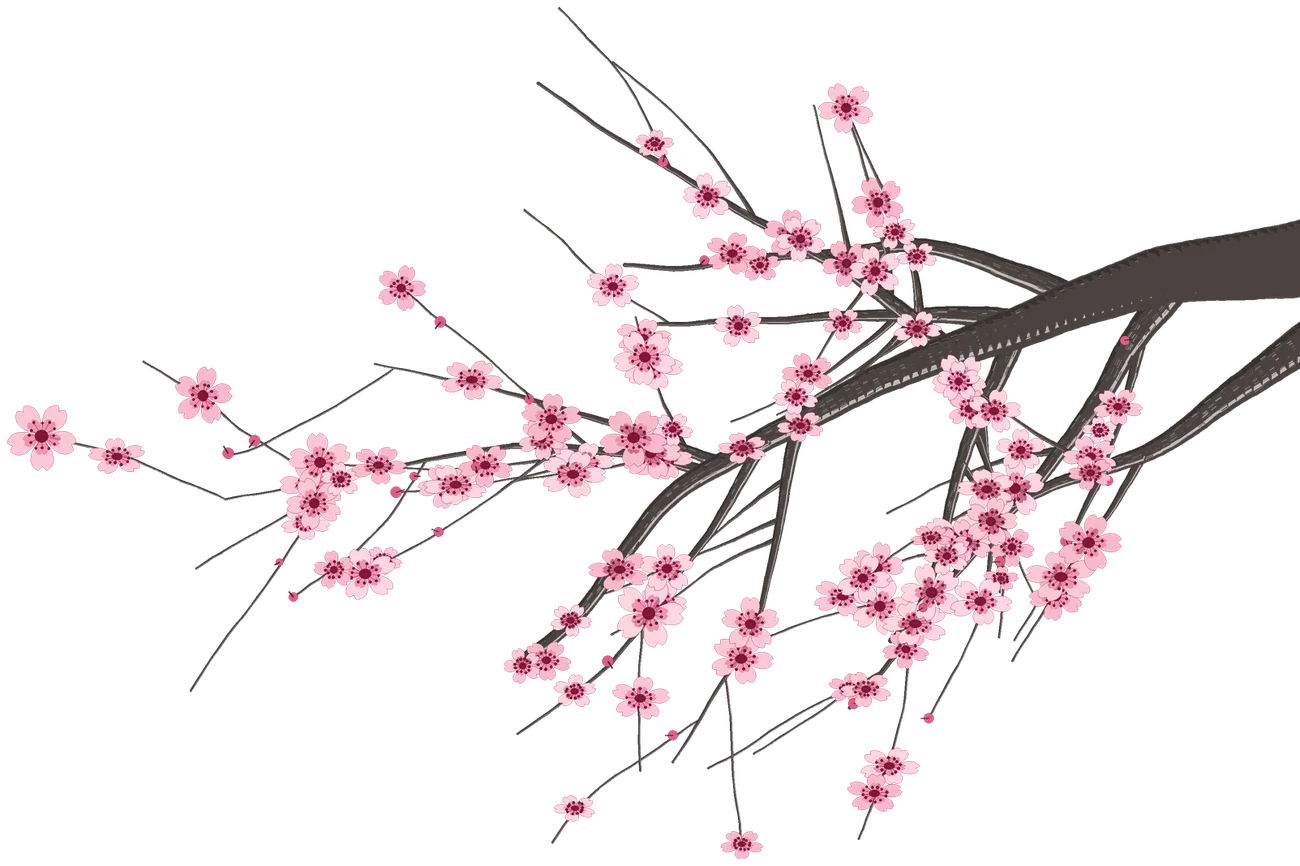
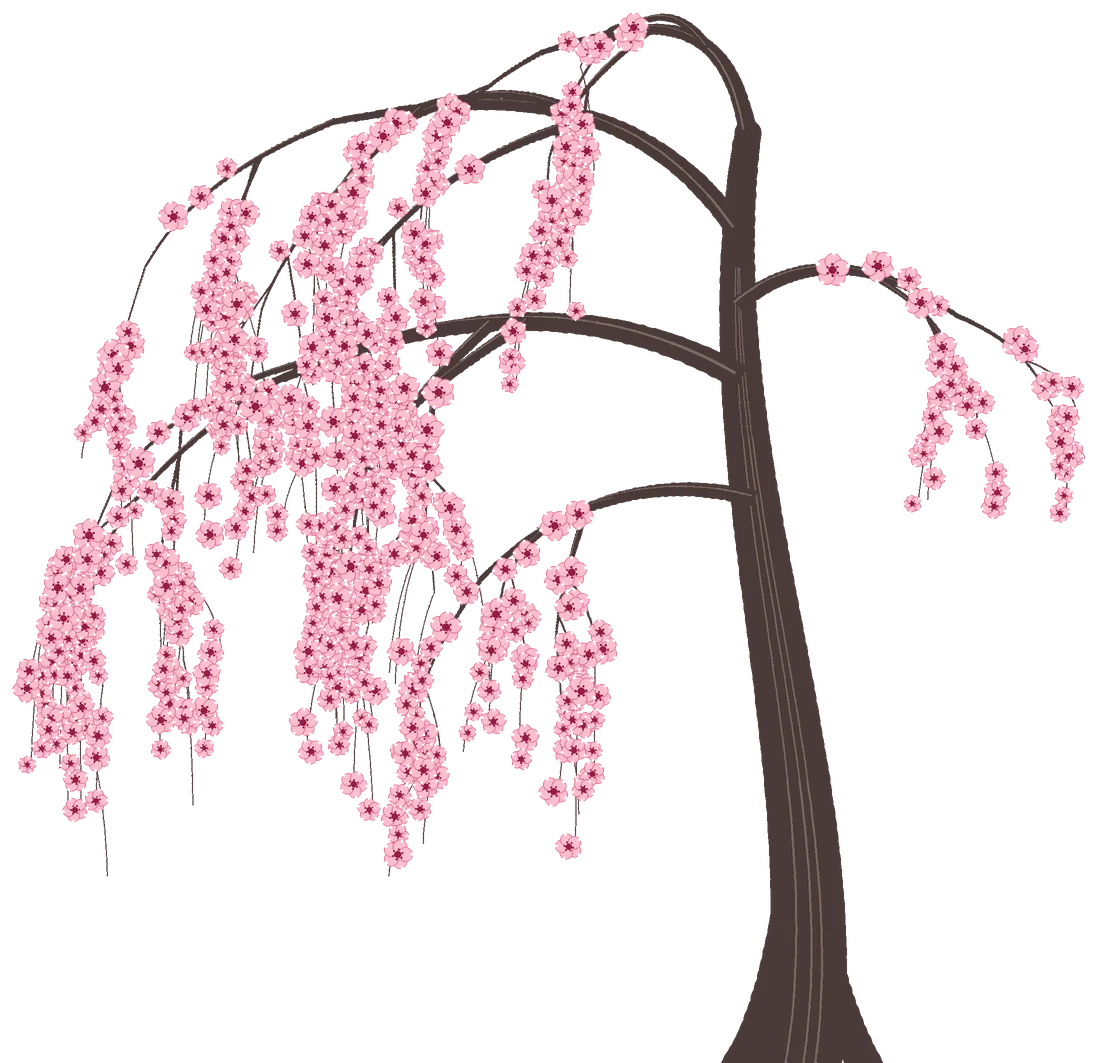
Taishi: celular sem distorção, sakura de pé e rótulos mais estreitos
- Pinheiro e sakura no celular mantêm a proporção da imagem (antes a altura
  fixa em 70% esticava as duas árvores).
- Nova sakura de pé, com tronco à direita e galhos tombando para a esquerda,
  posicionada como o pinheiro (desktop e celular).
- Anybody carregada com eixo de largura; no celular usa wdth 82 para os
  rótulos não parecerem esticados.

Claude-Session: https://claude.ai/code/session_01Uc961nBzTLqhHddo9xWod4

diff --git a/taishi/index.html b/taishi/index.html
@@ -10,7 +10,7 @@
 <link rel="icon" href="assets/img/logo.png">
 <link rel="preconnect" href="https://fonts.googleapis.com">
 <link rel="preconnect" href="https://fonts.gstatic.com" crossorigin>
-<link href="https://fonts.googleapis.com/css2?family=Anybody:wght@600;800&family=Bebas+Neue&family=Inria+Serif:wght@400;700&display=swap" rel="stylesheet">
+<link href="https://fonts.googleapis.com/css2?family=Anybody:wdth,wght@75..100,600..800&family=Bebas+Neue&family=Inria+Serif:wght@400;700&display=swap" rel="stylesheet">
 <!-- (2.4) tema: a escolha salva vale; sem escolha, segue o sistema. Roda antes do CSS para não piscar -->
 <script>try{var t=localStorage.getItem('taishi-tema');if(t==='dark'||(!t&&matchMedia('(prefers-color-scheme: dark)').matches))document.documentElement.dataset.theme='dark'}catch(e){}</script>
 <link rel="stylesheet" href="assets/site.css?v=11">
@@ -60,8 +60,8 @@
 <section class="heroi">
   <div class="sol" aria-hidden="true"></div>
   <img class="arvore pinheiro" src="assets/img/arvore.webp" alt="" width="900" height="964" fetchpriority="high">
-  <!-- (2.5) no tema escuro entra um galho de sakura ilustrado (src/sakura.py; só baixa quando aparece) -->
-  <img class="arvore sakura" src="assets/img/sakura.webp" alt="" width="1300" height="866" loading="lazy">
+  <!-- (2.5) no tema escuro entra uma sakura de pé com galhos tombados (ferramentas/taishi/sakura_em_pe.py no Frame; só baixa quando aparece) -->
+  <img class="arvore sakura" src="assets/img/sakura.webp?v=2" alt="" width="1098" height="1063" loading="lazy">
   <span class="kanji-lado" aria-hidden="true">寿司</span>
   <div class="heroi-txt">
     <p class="selo">Culinária oriental · Americana · Campinas · Sumaré</p>

diff --git a/taishi/assets/site.css b/taishi/assets/site.css
@@ -305,7 +305,10 @@ a.card{color:inherit;text-decoration:none}
   .heroi .selo{text-align:center}
   .lead{margin:0 auto 24px}
   .botoes{justify-content:center}
-  .arvore{opacity:.28;height:70%;right:-30%;bottom:auto;top:60px}
+  /* (2.6) árvore sem distorção: só a largura manda, a altura segue a proporção da imagem */
+  .arvore{opacity:.26;width:96vw;height:auto;right:-38vw;bottom:auto;top:84px}
+  /* (2.6) Anybody mais estreita no celular: a largura padrão parecia esticada nos rótulos pequenos */
+  body{font-variation-settings:'wdth' 82}
   .sol{width:180px;right:-30px;top:90px;opacity:.85}
   .kanji-lado{display:none}
   .prato-giro{width:84vw;margin-bottom:-22%}
@@ -346,9 +349,9 @@ a.card{color:inherit;text-decoration:none}
 [data-theme=dark] .heroi{background-color:#141011}
 [data-theme=dark] .arvore.pinheiro{display:none}
 /* (2.5) galho de sakura entrando pela direita, por cima do sol (como no Kigo) */
-[data-theme=dark] .arvore.sakura{display:block;z-index:0;top:72px;bottom:auto;right:0;width:min(58vw,980px)} /* atrás do texto, na frente do sol */
+[data-theme=dark] .arvore.sakura{display:block;width:min(50vw,calc((100svh - 120px) * 1.03))} /* (2.6) sakura de pé, como o pinheiro: atrás do texto, na frente do sol */
 [data-theme=dark] .agulha{width:18px;height:15px;animation-name:petala}
-@media (max-width:767px){[data-theme=dark] .arvore.sakura{width:120vw;right:-20vw;top:60px;opacity:.5}}
+@media (max-width:767px){[data-theme=dark] .arvore.sakura{width:104vw;right:-16vw;top:70px;opacity:.3}}
 [data-theme=dark] .sol{background:#c8231b;box-shadow:0 0 120px 20px rgba(200,35,27,.25)}
 [data-theme=dark] .kanji-lado{color:var(--marfim)}
 [data-theme=dark] .lead{color:#d8cdbf}

diff --git a/taishi/cardapio.html b/taishi/cardapio.html
@@ -10,7 +10,7 @@
 <link rel="icon" href="assets/img/logo.png">
 <link rel="preconnect" href="https://fonts.googleapis.com">
 <link rel="preconnect" href="https://fonts.gstatic.com" crossorigin>
-<link href="https://fonts.googleapis.com/css2?family=Anybody:wght@600;800&family=Bebas+Neue&family=Inria+Serif:wght@400;700&display=swap" rel="stylesheet">
+<link href="https://fonts.googleapis.com/css2?family=Anybody:wdth,wght@75..100,600..800&family=Bebas+Neue&family=Inria+Serif:wght@400;700&display=swap" rel="stylesheet">
 <script>try{var t=localStorage.getItem('taishi-tema');if(t==='dark'||(!t&&matchMedia('(prefers-color-scheme: dark)').matches))document.documentElement.dataset.theme='dark'}catch(e){}</script>
 <link rel="stylesheet" href="assets/site.css?v=11">
 <link rel="stylesheet" href="assets/cardapio.css?v=5">
